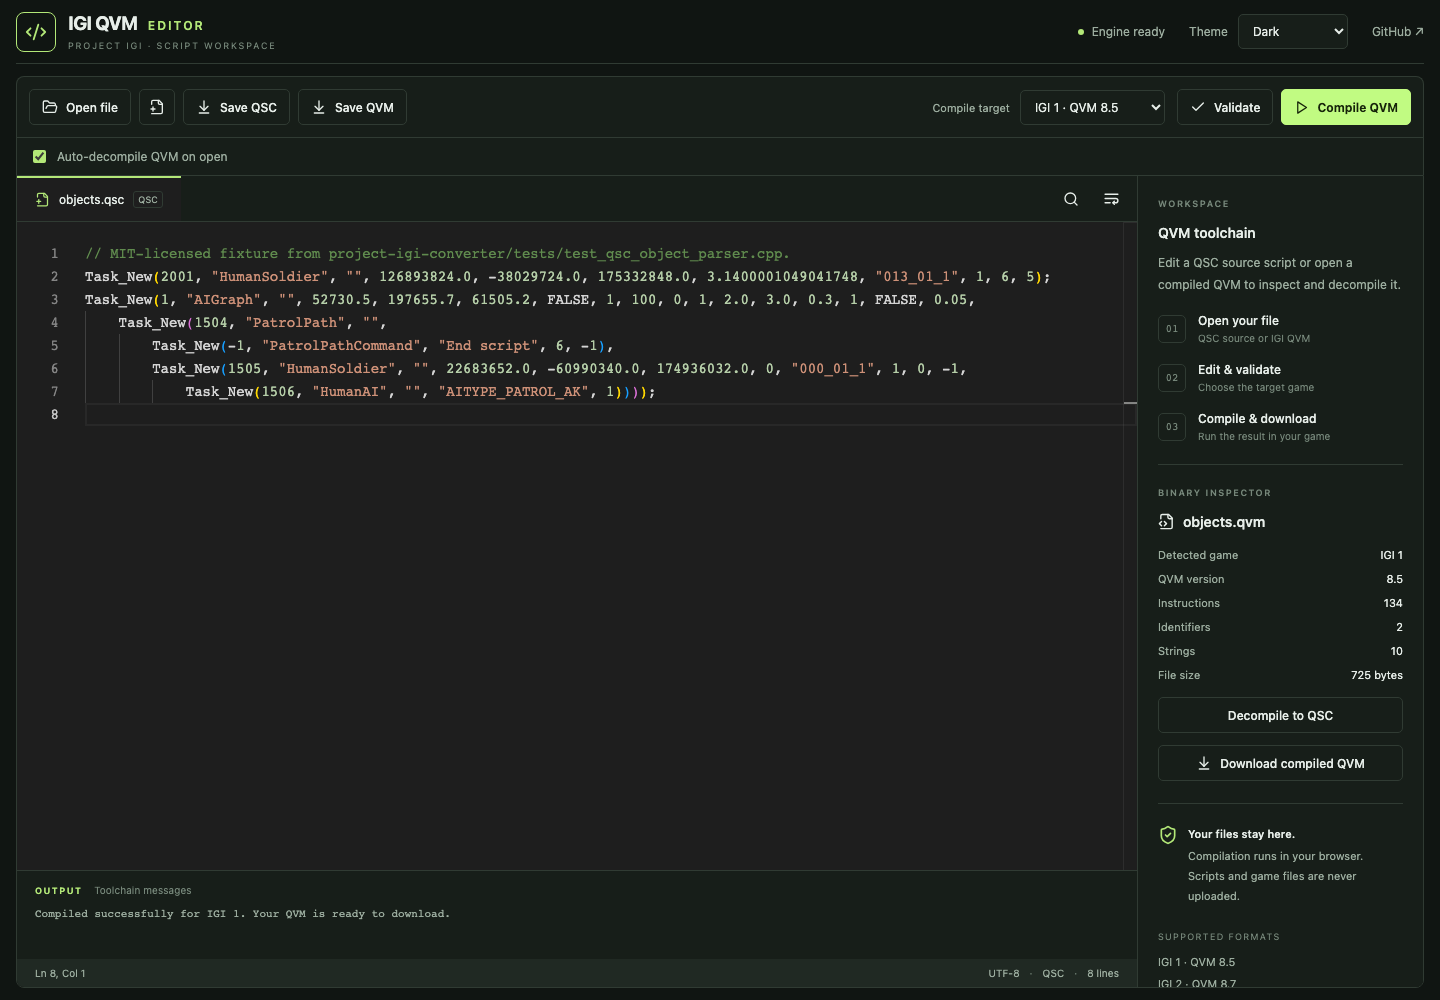
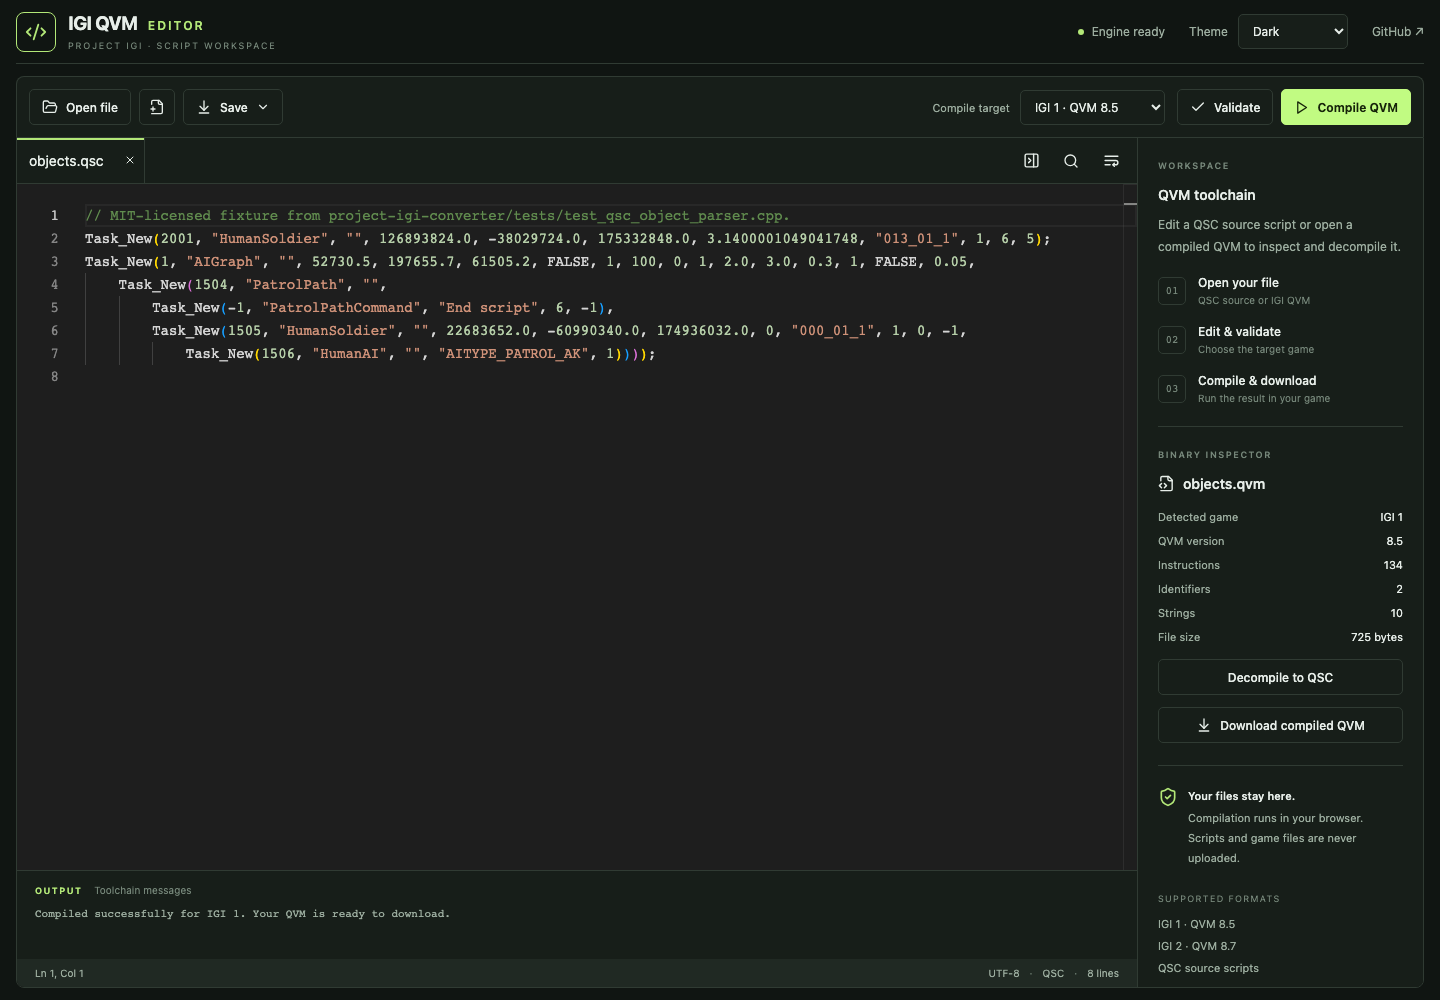
docs: update workspace screenshots and local validation evidence

diff --git a/README.md b/README.md
@@ -19,10 +19,13 @@ The application executes the compiler and decompiler, never the game scripts.
 - Monaco syntax highlighting, error markers, find, word wrap, undo and redo.
 - Dark, Light and Midnight themes; theme preference stays in local browser storage.
 - File picker, drag/drop, QSC save and QVM download with base filenames retained.
-- Separate **Save QSC** and **Save QVM** actions for the current editor contents.
-  Save QVM compiles the latest edits for the selected game before downloading.
-- **Auto-decompile QVM on open** is enabled by default and can be switched off
-  for inspecting a binary before manually decompiling it.
+- One **Save** dropdown offers **Save script (QSC)** and **Save binary (QVM)**.
+  Binary saving compiles the latest edits for the selected game before downloading.
+- QVM files automatically decompile into editable QSC when opened.
+- Open or drop multiple QSC/QVM files into separate tabs (up to 20).
+  Each tab retains its own source, undo history, target game and compiled binary.
+- The right inspector starts collapsed; toggle it to inspect metadata or reclaim
+  the full editor width.
 - Detailed lexer/parser diagnostics and QVM instruction/table metadata.
 - Responsive desktop workspace and mobile layout.
 - Native C++ compiled to WebAssembly in a Web Worker, keeping the editor responsive.

diff --git a/docs/VALIDATION.md b/docs/VALIDATION.md
@@ -29,11 +29,13 @@ function** coverage of the extracted native core after unit and corpus checks.
 Reports are generated under `build/coverage/` and remain local. This is below
 100%; passing every feature scenario does not change that measurement.
 
-The updated static build passed **68/68 Playwright cases on localhost**, with no
+The updated static build passed **80/80 Playwright cases on localhost**, with no
 skipped or flaky cases, across desktop Chromium, desktop WebKit, Pixel 7 Chromium
 and iPhone WebKit. The cases include uploaded QSC/QVM files, edited-source saving
-in both formats, reopening the edited binary, optional automatic decompilation,
-the full-viewport layout, diagnostics, failure/retry and stale-operation guards.
+in both formats through the single Save dropdown, reopening the edited binary,
+automatic decompilation, mixed multi-file drag/drop, independent tabs and undo
+history, the collapsible right panel, full-viewport layout, diagnostics,
+failure/retry and deterministic stale-operation guards.
 
 The original 56-case static run measured 40.32% V8 executed byte ranges in the
 production bundle, including Monaco dependencies. This is a different metric

diff --git a/docs/BUGS.md b/docs/BUGS.md
@@ -15,7 +15,11 @@ available in this session, so this repository keeps the actionable records here.
 - Mobile testing: use matching browser/device profiles, including genuine WebKit
   for iPhone Safari rather than spoofing Safari in Chromium.
 - Opening QVM previously only inspected its header, leaving the source editor
-  empty. The default import option now decompiles it into the editor; users can
-  disable that option for manual inspection.
+  empty. Every valid supported QVM now automatically decompiles into the editor.
 - Saving updated QVM now compiles the current source and selected target before
   downloading. Revision guards prevent downloading a result for superseded edits.
+- QVM-WEB-001: multiple imports previously replaced the current source. Each file
+  now owns its source, target, diagnostics, binary and Monaco model; closing a
+  dirty tab asks for confirmation and closed models are disposed.
+- QVM-WEB-002: the fixed inspector consumed editor space. It now starts collapsed
+  and its accessible toggle restores the full editor width.
